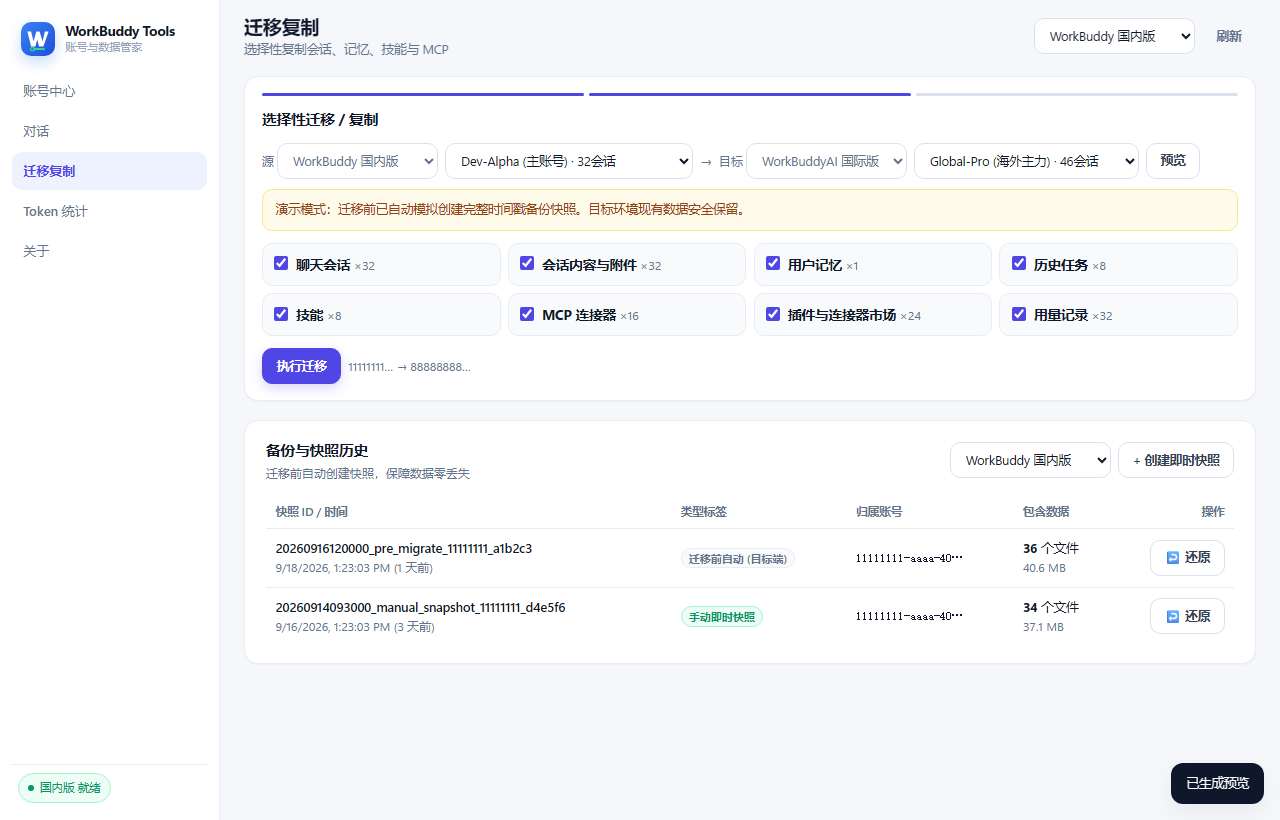
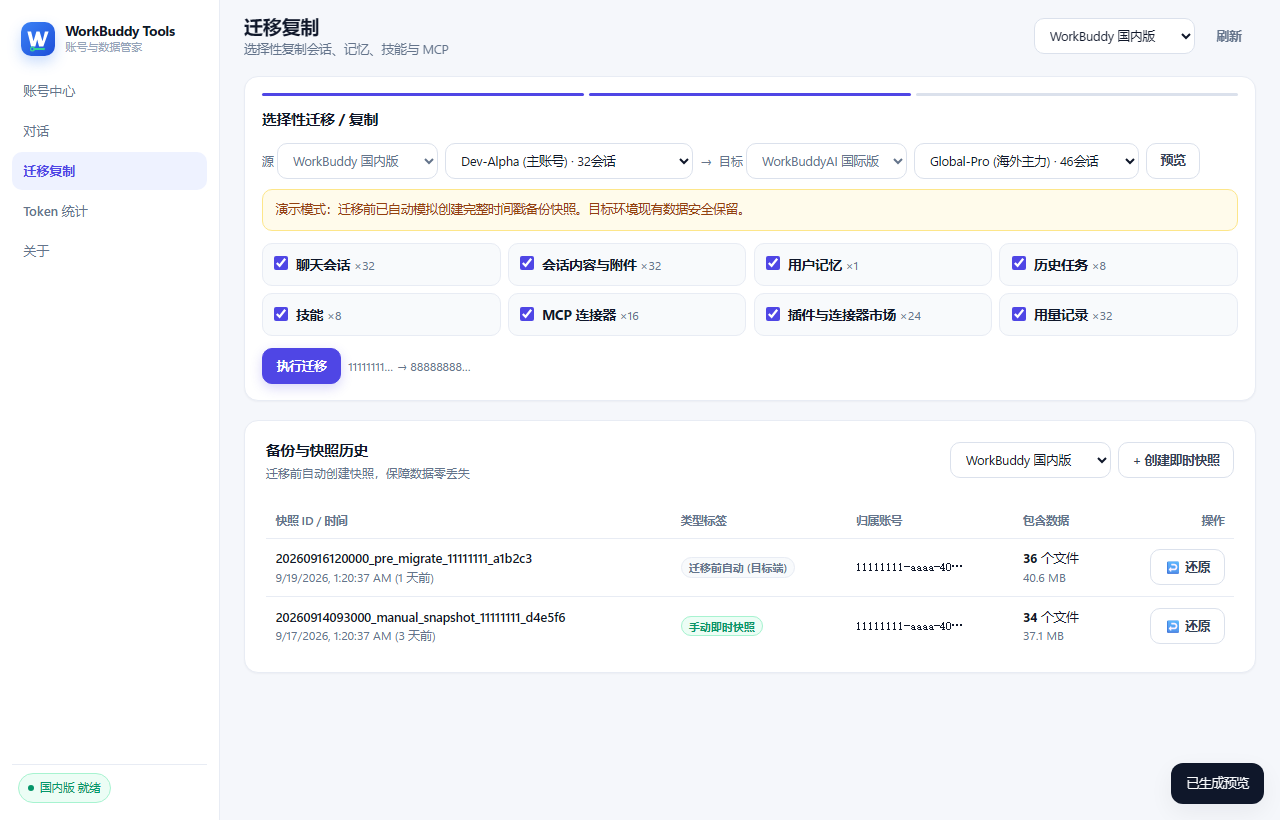
fix(ui): polish responsive layout across breakpoints, table headers, and charts

diff --git a/ui/src/styles.css b/ui/src/styles.css
@@ -748,17 +748,25 @@ button {
     flex-direction: row;
     flex-wrap: wrap;
     align-items: center;
-    gap: 0.5rem;
+    justify-content: space-between;
+    gap: 0.6rem;
+    padding: 0.75rem 1.25rem;
     border-right: 0;
     border-bottom: 1px solid var(--line);
+  }
+  .brand {
+    padding: 0;
+    gap: 0.55rem;
   }
   .nav {
     flex-direction: row;
     flex-wrap: wrap;
+    gap: 4px;
   }
   .side-foot {
     margin-top: 0;
     border-top: 0;
+    padding: 0;
   }
   .charts {
     grid-template-columns: 1fr;
@@ -770,6 +778,38 @@ button {
   .topbar {
     padding-left: 1rem;
     padding-right: 1rem;
+  }
+}
+
+@media (max-width: 680px) {
+  .sidebar {
+    padding: 0.6rem 0.85rem;
+  }
+  .brand-sub {
+    display: none;
+  }
+  .nav-item {
+    padding: 0.45rem 0.6rem;
+    font-size: 12.5px;
+  }
+  .cards {
+    grid-template-columns: 1fr;
+  }
+  .sess-search-wrap {
+    min-width: 100%;
+    max-width: 100%;
+  }
+}
+
+@media (max-width: 540px) {
+  .topbar {
+    flex-direction: column;
+    align-items: flex-start;
+    gap: 0.5rem;
+  }
+  .top-actions {
+    width: 100%;
+    justify-content: flex-end;
   }
 }
 
@@ -1034,6 +1074,11 @@ button {
   margin-top: 1.2rem;
 }
 
+#backup-table-wrap {
+  width: 100%;
+  overflow-x: auto;
+}
+
 .backup-table {
   width: 100%;
   border-collapse: collapse;
@@ -1048,12 +1093,14 @@ button {
   font-weight: 600;
   border-bottom: 1px solid var(--line);
   font-size: 11.5px;
+  white-space: nowrap;
 }
 
 .backup-table td {
   padding: 0.65rem 0.6rem;
   border-bottom: 1px solid var(--line);
   vertical-align: middle;
+  white-space: nowrap;
 }
 
 .backup-table tr:last-child td {
@@ -1387,6 +1434,12 @@ button {
   grid-template-columns: 1.55fr 1fr;
   gap: 0.75rem;
   margin-bottom: 0.9rem;
+}
+
+@media (max-width: 900px) {
+  .token-charts-row {
+    grid-template-columns: 1fr;
+  }
 }
 
 .daily-chart-box, .donut-chart-box {
@@ -1948,6 +2001,15 @@ button {
 @media (max-width: 900px) {
   .sess-kpi-grid {
     grid-template-columns: repeat(2, 1fr);
+  }
+}
+
+@media (max-width: 580px) {
+  .sess-kpi-grid {
+    grid-template-columns: 1fr;
+  }
+  .sess-export-modes-grid {
+    grid-template-columns: 1fr;
   }
 }
 

diff --git a/scripts/verify_responsive.py b/scripts/verify_responsive.py
@@ -1,0 +1,63 @@
+import os
+import subprocess
+import time
+from functools import partial
+from http.server import SimpleHTTPRequestHandler, ThreadingHTTPServer
+import threading
+
+def main():
+    repo_root = os.path.dirname(os.path.dirname(os.path.abspath(__file__)))
+    dist_dir = os.path.join(repo_root, "ui", "dist")
+    out_dir = os.path.join(repo_root, "docs", "responsive_audit")
+    os.makedirs(out_dir, exist_ok=True)
+
+    port = 5522
+    handler = partial(SimpleHTTPRequestHandler, directory=dist_dir)
+    server = ThreadingHTTPServer(("127.0.0.1", port), handler)
+    server_thread = threading.Thread(target=server.serve_forever, daemon=True)
+    server_thread.start()
+    time.sleep(0.5)
+
+    edge_paths = [
+        r"C:\Program Files (x86)\Microsoft\Edge\Application\msedge.exe",
+        r"C:\Program Files\Microsoft\Edge\Application\msedge.exe",
+    ]
+    edge_exe = next((p for p in edge_paths if os.path.exists(p)), None)
+    if not edge_exe:
+        print("Microsoft Edge not found.")
+        server.shutdown()
+        return
+
+    pages = [
+        ("accounts", f"http://127.0.0.1:{port}/?demo=1&page=accounts&clean=1"),
+        ("sessions", f"http://127.0.0.1:{port}/?demo=1&page=sessions&clean=1"),
+        ("migrate", f"http://127.0.0.1:{port}/?demo=1&page=migrate&from=domestic&to=international&plan=1&clean=1"),
+        ("tokens", f"http://127.0.0.1:{port}/?demo=1&page=tokens&range=7d&clean=1"),
+        ("about", f"http://127.0.0.1:{port}/?demo=1&page=about&clean=1"),
+    ]
+
+    widths = [1280, 1100, 980, 750, 600]
+
+    try:
+        for page_name, url in pages:
+            for w in widths:
+                out_path = os.path.join(out_dir, f"{page_name}_{w}px.png")
+                cmd = [
+                    edge_exe,
+                    "--headless=new",
+                    "--disable-gpu",
+                    "--hide-scrollbars",
+                    "--virtual-time-budget=2000",
+                    f"--window-size={w},820",
+                    f"--screenshot={out_path}",
+                    url,
+                ]
+                subprocess.run(cmd, check=True)
+                print(f"Captured {page_name} @ {w}px -> {out_path}")
+    finally:
+        server.shutdown()
+
+    print("\nAll responsive screenshots captured.")
+
+if __name__ == "__main__":
+    main()

diff --git a/RELEASE.md b/RELEASE.md
@@ -30,5 +30,5 @@ powershell -ExecutionPolicy Bypass -File scripts/build_portable.ps1
 | 文件名 | 文件大小 | SHA256 校验码 |
 | :--- | :--- | :--- |
[5 lines of base64/hex data omitted]
